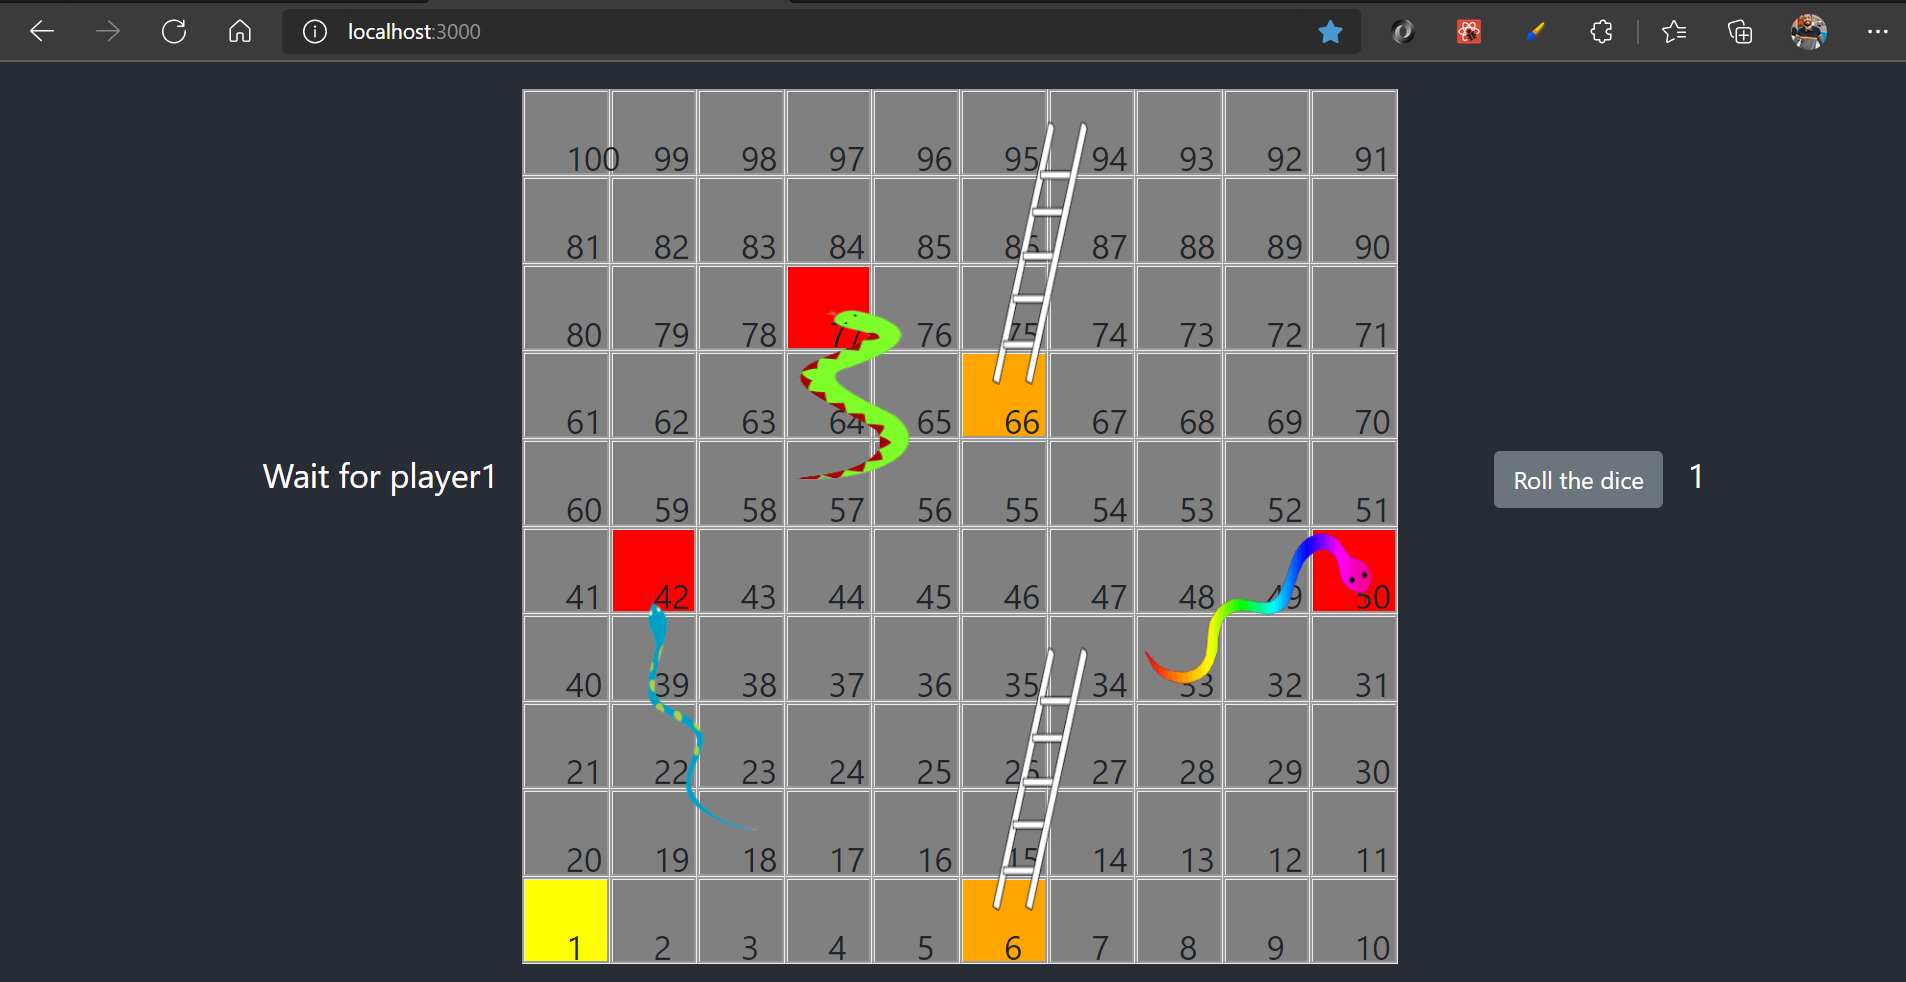
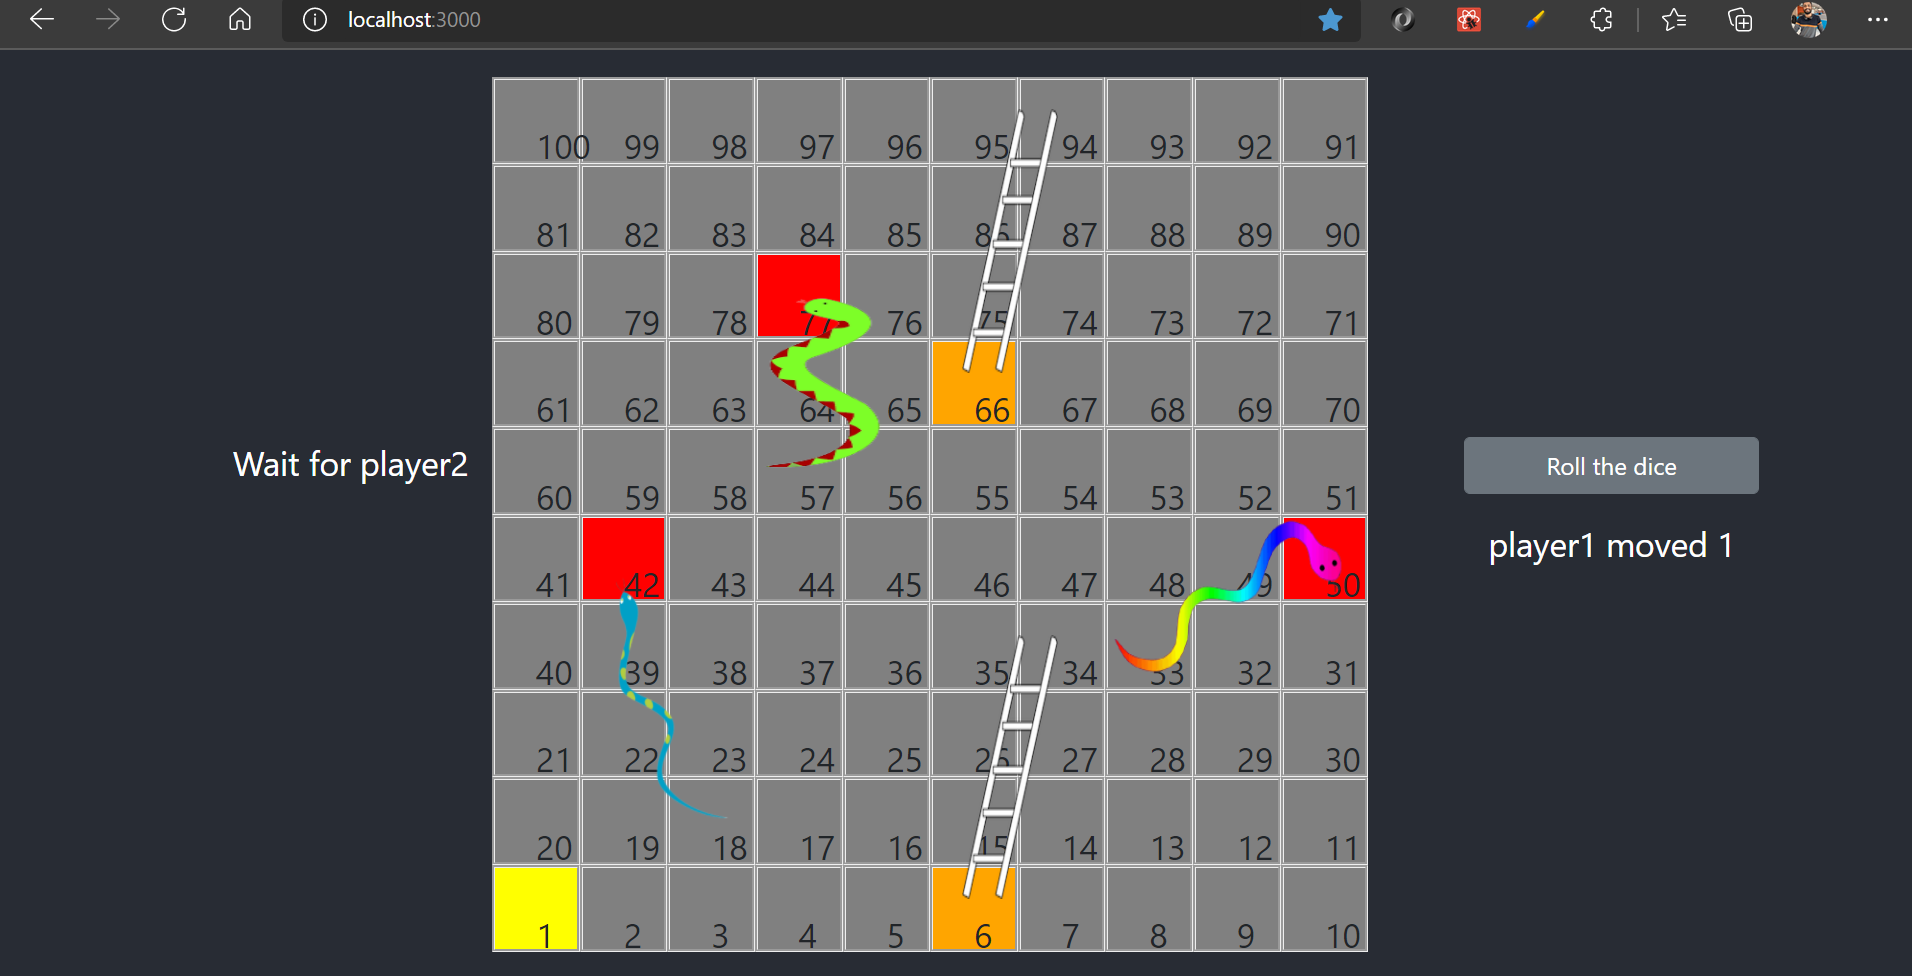
change of text

Changed region(s): [[0.0, 0.0, 0.9906, 0.9836], [0.7739, 0.5533, 0.8977, 0.584]]

diff --git a/src/components/Board/Board.component.js b/src/components/Board/Board.component.js
@@ -3,8 +3,8 @@ import Cell from "../Cell/Cell.component";
 import "./Board.scss";
 import { Button } from "reactstrap";
 import { getPlayer, getSnakes, getLadder } from "../../utils/util";
-import {toast} from 'react-toastify';
-import 'react-toastify/dist/ReactToastify.css';
+import { toast } from "react-toastify";
+import "react-toastify/dist/ReactToastify.css";
 
 toast.configure();
 export default class Board extends React.Component {
@@ -17,6 +17,7 @@ export default class Board extends React.Component {
       ladders: getLadder(),
       turn: 0,
       gameover: false,
+      start: false,
     };
   }
   checkSnake = (i) => {
@@ -52,7 +53,11 @@ export default class Board extends React.Component {
       });
       let snakeFound = this.checkSnake(i);
       let ladderFound = this.checkLadder(i);
-      if (found === undefined && snakeFound === undefined && ladderFound === undefined) {
+      if (
+        found === undefined &&
+        snakeFound === undefined &&
+        ladderFound === undefined
+      ) {
         found = {
           backgroundColor: "grey",
         };
@@ -60,21 +65,29 @@ export default class Board extends React.Component {
         found = {
           backgroundColor: "red",
         };
-       
-      } else if (ladderFound !== undefined){
+      } else if (ladderFound !== undefined) {
         found = {
-            backgroundColor: "orange",
-          };
-         
+          backgroundColor: "orange",
+        };
       } else {
         found = found.style;
       }
-      boardHtml.push(<Cell sStyle={found} snake={snakeFound} ladder={ladderFound} number={i}></Cell>);
+      boardHtml.push(
+        <Cell
+          sStyle={found}
+          snake={snakeFound}
+          ladder={ladderFound}
+          number={i}
+        ></Cell>
+      );
     }
     return boardHtml;
   };
   onRollDiceClick = () => {
-    if (this.state.gameover){
+    this.setState({
+      start : true,
+    });
+    if (this.state.gameover) {
       return;
     }
     const min = 1;
@@ -82,8 +95,8 @@ export default class Board extends React.Component {
     const rand = Math.floor(min + Math.random() * (max - min));
     let player = this.state.players.slice();
     const turn = this.state.turn;
-    if (!player[turn].start){
-      if (rand === 1){
+    if (!player[turn].start) {
+      if (rand === 1) {
         player[turn].start = true;
       }
       this.setState({
@@ -92,16 +105,16 @@ export default class Board extends React.Component {
         turn: turn === 0 ? 1 : 0,
       });
       return;
-    }else if (player[turn].status >94){
+    } else if (player[turn].status > 94) {
       const sum = player[turn].status + rand;
-      if (sum > 100){
+      if (sum > 100) {
         this.setState({
           diceNumber: rand,
           players: player,
           turn: turn === 0 ? 1 : 0,
         });
         return;
-      } else if (sum === 100){
+      } else if (sum === 100) {
         player[turn].status = sum;
         this.setState({
           diceNumber: rand,
@@ -109,7 +122,9 @@ export default class Board extends React.Component {
           turn: turn === 0 ? 1 : 0,
           gameover: true,
         });
-        toast.success('Game Over '+player[turn].name+" Won",{position: toast.POSITION.BOTTOM_CENTER});
+        toast.success("Game Over " + player[turn].name + " Won", {
+          position: toast.POSITION.BOTTOM_CENTER,
+        });
         return;
       }
     }
@@ -117,14 +132,14 @@ export default class Board extends React.Component {
     let status = player[turn].status;
     // Snake bite
     const snakeFound = this.checkSnake(status);
-    if (snakeFound !== undefined){
-        player[turn].status = snakeFound.tail;
+    if (snakeFound !== undefined) {
+      player[turn].status = snakeFound.tail;
     }
     // Ladder Check
     const ladderFound = this.checkLadder(status);
-    if (ladderFound !== undefined){
-        player[turn].status = ladderFound.to;
-    } 
+    if (ladderFound !== undefined) {
+      player[turn].status = ladderFound.to;
+    }
     this.setState({
       diceNumber: rand,
       players: player,
@@ -136,20 +151,28 @@ export default class Board extends React.Component {
     const boardHtml = [];
     for (let i = 0; i < 10; i++) {
       const eachRow = this.createBoard(i * fixedCol + 1, fixedCol * (i + 1));
-      boardHtml.push(<div key={i * fixedCol + 1+"main"}>{eachRow}</div>);
+      boardHtml.push(<div key={i * fixedCol + 1 + "main"}>{eachRow}</div>);
     }
     return (
       <>
         <div className="boardGame">
-        <div className="dice">{this.state.players[this.state.turn].start?"Turn for":"Wait for"} {this.state.players[this.state.turn].name}</div>
+          <div className="dice">
+            {this.state.players[this.state.turn].start
+              ? "Turn for"
+              : "Wait for"}{" "}
+            {this.state.players[this.state.turn].name}
+          </div>
           <div>
-          <div className="table">{boardHtml}</div>
-        </div>
-        <div className="dice">
+            <div className="table">{boardHtml}</div>
+          </div>
+          <div className="dice">
             <Button variant="primary" onClick={this.onRollDiceClick}>
               Roll the dice
             </Button>
-            <span style={{padding: "1rem"}}>{this.state.diceNumber}</span>
+            <span style={{ padding: "1rem" }}>
+              {this.state.start?this.state.players[this.state.turn === 0 ? 1 : 0].name +" moved "+
+              this.state.diceNumber:"Start throw Dice" }
+            </span>
           </div>
         </div>
       </>

diff --git a/src/components/Board/Board.scss b/src/components/Board/Board.scss
@@ -17,6 +17,8 @@
       flex-direction: row;
   }
   .dice{
-      padding-top: 16rem;
+    padding-top: 16rem;
     padding-left: 3rem;
+    display: flex;
+    flex-direction: column;
   }
